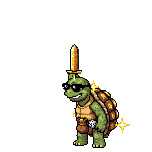
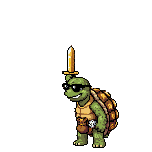
art(fortune): 自查补修·攻击命中帧擦掉 AI 剑弧并从待机帧拷剑身·招财进宝删掉被白星盖脸的三帧

diff --git a/tools/oneoff/fortune_seq_1126.py b/tools/oneoff/fortune_seq_1126.py
@@ -7,6 +7,10 @@
   攻击: 用 0~4 + 7~8(第 5 / 6 帧 AI 让它转过身去、壳朝前, 违反「不转身」, 删掉); 命中 = 第 4 帧(剑劈到身前)
   攻击 / 招财进宝: 只留跟身体连在一起的像素(AI 自己画的剑弧、白光星、撒出的金币是演示特效, 游戏另有特效画; pet_seq/README「裸帧」)
   骰子: 抛在空中的骰子是动作本身, 保留
+  11-26 深夜自查(拼图逐帧看)补两处:
+  · 攻击命中帧(原第 4 帧)AI 画的剑弧跟剑连成一块, 连通块清不掉 ⇒ 按区域擦掉剑弧(头顶以上 / 头左侧 / 手左下),
+    再从待机第 0 帧拷剑身(护手 → 剑尖, 斜向左下)贴到手上 —— 脚本拷像素, 不是重画
+  · 招财进宝原第 2~4 帧有 AI 画的大白星 / 小闪光(第 2 帧整张脸被星盖住, 第 4 帧闪光压在壳边上, 擦了会在壳上开洞)⇒ 删掉, 第 5 帧(同一举剑姿势、干净)停三拍
 一次性; 输出逐字节确定。
 """
 import json
@@ -50,6 +54,30 @@ def main_body(im: Image.Image) -> Image.Image:
     return out
 
 
+def fix_hit(im: Image.Image) -> Image.Image:
+    """攻击命中帧: 擦剑弧 + 从待机帧拷剑身(坐标在 4 倍网格图上量的, 152 帧坐标)"""
+    im = im.copy()
+    px = im.load()
+    for y in range(152):
+        for x in range(152):
+            if y <= 81 or (x <= 63 and 82 <= y <= 111) or (x <= 58 and 112 <= y <= 131):
+                px[x, y] = (0, 0, 0, 0)
+    for y in range(82, 89):             # 头顶左角压着的一截剑弧: 只擦非绿、非暗描边的像素
+        for x in range(63, 73):
+            c = px[x, y]
+            if c[3] >= 128 and not (c[1] > c[0] and c[1] > c[2]) and sum(c[:3]) > 150:
+                px[x, y] = (0, 0, 0, 0)
+    idle = Image.open(os.path.join(IDLE, "fortune_idle_00.png")).convert("RGBA").load()
+    dx, dy = -7, -6                     # 待机护手(66,125) → 命中帧手里(59,119)
+    for y in range(118, 147):
+        for x in range(44, 67):
+            c = idle[x, y]
+            if c[3] < 128 or (c[1] > c[0] and c[1] > c[2] + 20):   # 跳过透明与绿色(手)
+                continue
+            px[x + dx, y + dy] = c
+    return im
+
+
 def put(seg: str, frames: list) -> None:
     d = os.path.join(DST, seg)
     os.makedirs(d, exist_ok=True)
@@ -71,16 +99,18 @@ def main() -> None:
     os.makedirs(DST, exist_ok=True)
     put("idle", [Image.open(os.path.join(IDLE, "fortune_idle_%02d.png" % i)).convert("RGBA") for i in range(8)])
     put("run", ai("fE_walk", list(range(8))))
-    put("attack", ai("fE_atk", [0, 1, 2, 3, 4, 7, 8], clean=True))
+    atk = ai("fE_atk", [0, 1, 2, 3, 4, 7, 8], clean=True)
+    atk[4] = fix_hit(atk[4])
+    put("attack", atk)
     put("death", ai("fE_die", list(range(9))))
     put("cast_fortuneDice", ai("fE_dice", list(range(9))))
     put("cast_fortuneAllIn", ai("fE_allin", list(range(8))))   # 末帧(第 8 帧)AI 画了撒出去的金币 —— 投币由游戏弹道画, 不要
-    put("cast_fortuneBuyEquip", ai("fE_buy", list(range(9)), clean=True))
+    put("cast_fortuneBuyEquip", ai("fE_buy", [0, 1, 5, 5, 5, 6, 7, 8], clean=True))
     shutil.copyfile(os.path.join(SRC, "fortE_2.png"), os.path.join(DST, "avatar.png"))
     seg = lambda rel, fps=15: {"cancel": -1, "fps": fps, "ground": GROUND, "ox": 0, "rel": rel}
     meta = {
         "idle": seg(-1, 8), "run": seg(-1, 12), "attack": seg(4), "death": seg(-1),
-        "cast_fortuneDice": seg(4), "cast_fortuneAllIn": seg(5), "cast_fortuneBuyEquip": seg(4),
+        "cast_fortuneDice": seg(4), "cast_fortuneAllIn": seg(5), "cast_fortuneBuyEquip": seg(3),
     }
     json.dump(meta, open(os.path.join(DST, "seq.json"), "w", encoding="utf-8"), ensure_ascii=False, indent=1, sort_keys=True)
     ## 头像框(avatar_heads.json 里 fortune 那一项手改: src = pet_seq/fortune/avatar.png, k 1, box [14, 6, 38] = 88×88 源图里头部含墨镜)
